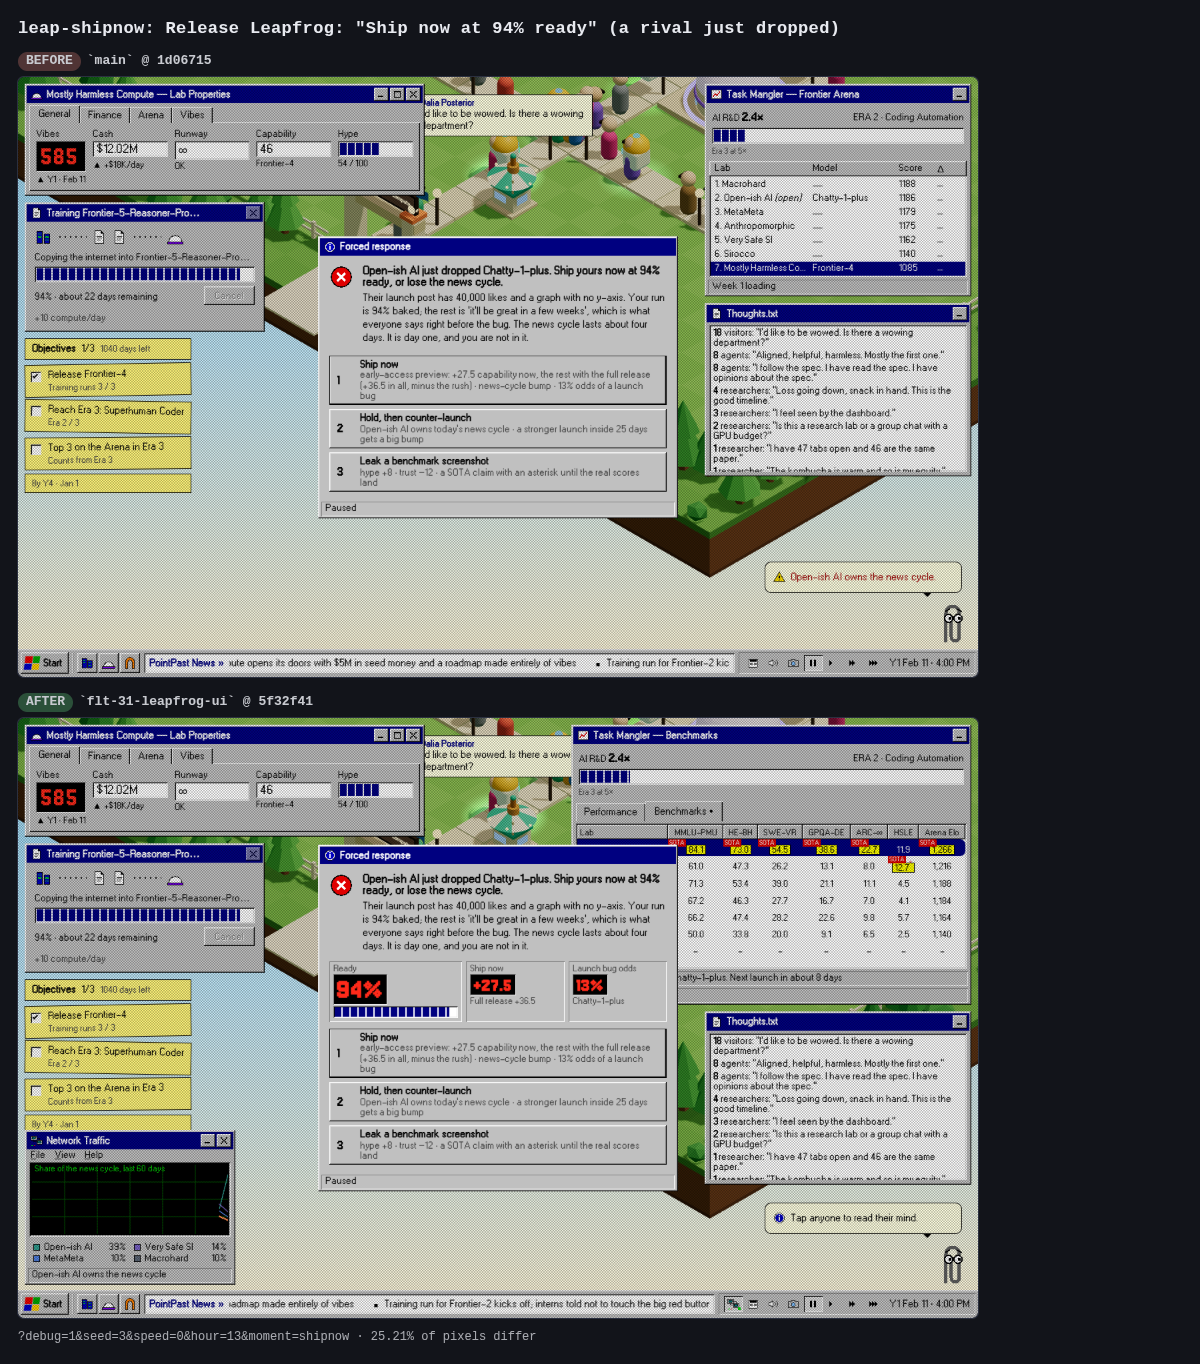
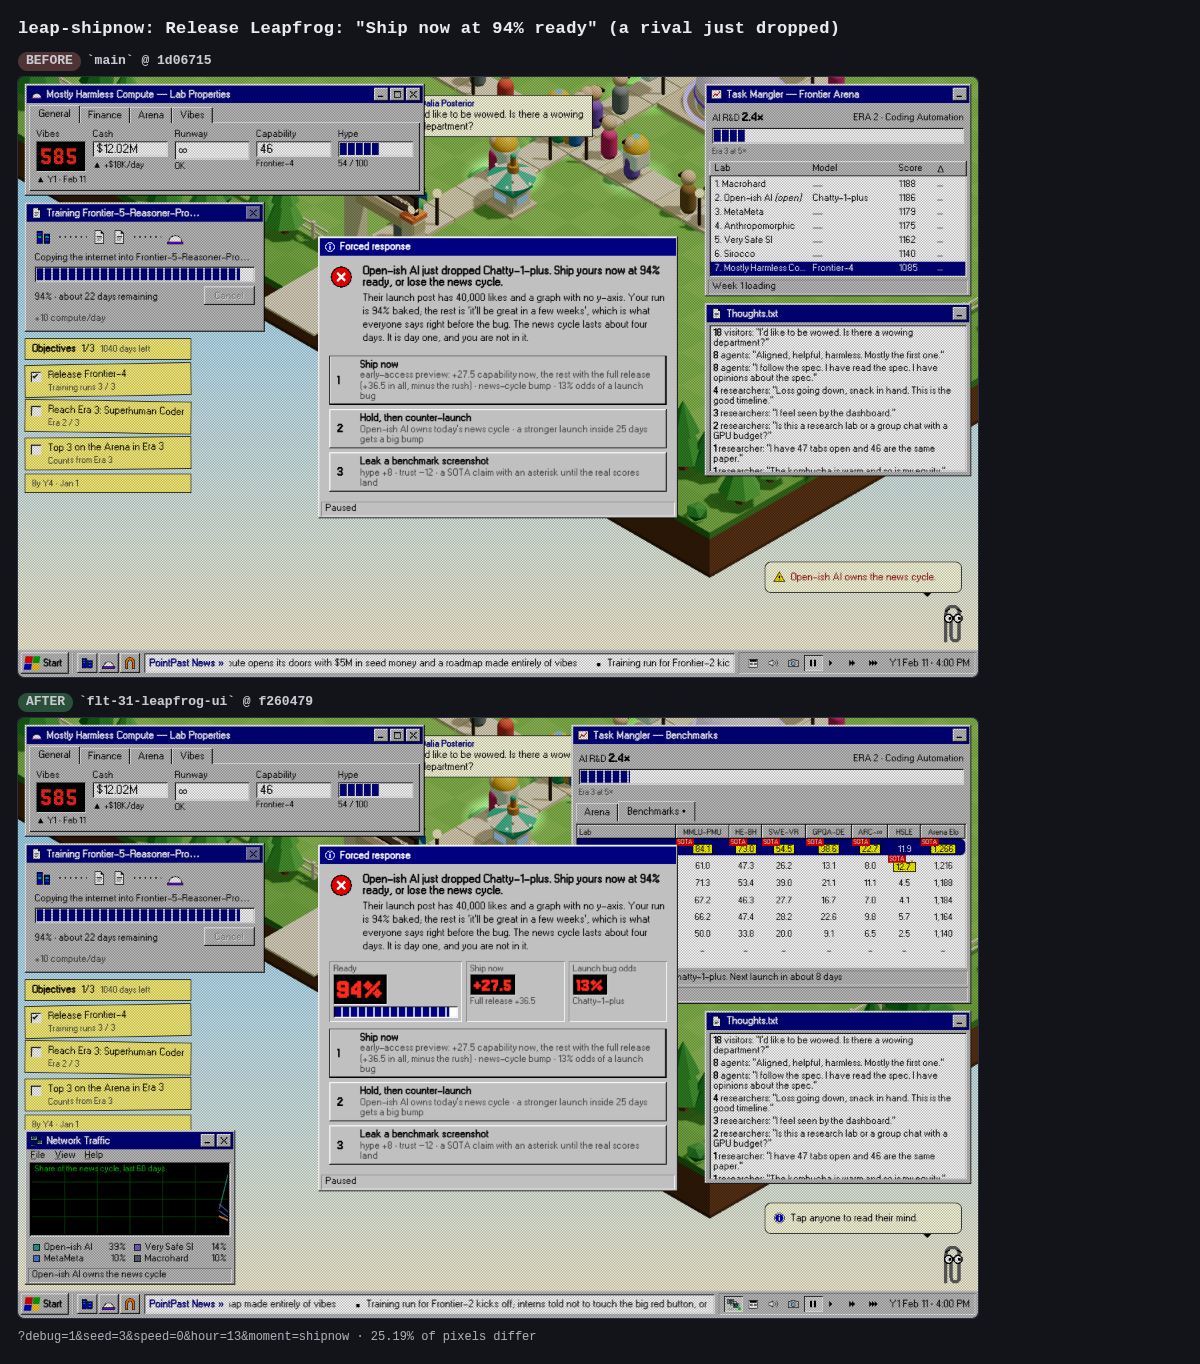
FLT-31: before/after screenshots (leapfrog scene set) and a gallery of every skin

diff --git a/docs/img/flt-31/report.md b/docs/img/flt-31/report.md
@@ -1,13 +1,13 @@
 
-| Scene | Before (`main` @ 1d06715) | After (`flt-31-leapfrog-ui` @ 5f32f41) |
+| Scene | Before (`main` @ 1d06715) | After (`flt-31-leapfrog-ui` @ f260479) |
 |---|---|---|
-| **leap-board**<br>21.5% px differ | ![leap-board](https://github.com/jem-computer/frontier-lab-tycoon/blob/flt-31-leapfrog-ui/docs/img/flt-31/before/leap-board.png?raw=true) | ![leap-board](https://github.com/jem-computer/frontier-lab-tycoon/blob/flt-31-leapfrog-ui/docs/img/flt-31/after/leap-board.png?raw=true) |
-| **leap-solved**<br>18.9% px differ | ![leap-solved](https://github.com/jem-computer/frontier-lab-tycoon/blob/flt-31-leapfrog-ui/docs/img/flt-31/before/leap-solved.png?raw=true) | ![leap-solved](https://github.com/jem-computer/frontier-lab-tycoon/blob/flt-31-leapfrog-ui/docs/img/flt-31/after/leap-solved.png?raw=true) |
-| **leap-voice**<br>22.8% px differ | ![leap-voice](https://github.com/jem-computer/frontier-lab-tycoon/blob/flt-31-leapfrog-ui/docs/img/flt-31/before/leap-voice.png?raw=true) | ![leap-voice](https://github.com/jem-computer/frontier-lab-tycoon/blob/flt-31-leapfrog-ui/docs/img/flt-31/after/leap-voice.png?raw=true) |
+| **leap-board**<br>21.4% px differ | ![leap-board](https://github.com/jem-computer/frontier-lab-tycoon/blob/flt-31-leapfrog-ui/docs/img/flt-31/before/leap-board.png?raw=true) | ![leap-board](https://github.com/jem-computer/frontier-lab-tycoon/blob/flt-31-leapfrog-ui/docs/img/flt-31/after/leap-board.png?raw=true) |
+| **leap-solved**<br>19.6% px differ | ![leap-solved](https://github.com/jem-computer/frontier-lab-tycoon/blob/flt-31-leapfrog-ui/docs/img/flt-31/before/leap-solved.png?raw=true) | ![leap-solved](https://github.com/jem-computer/frontier-lab-tycoon/blob/flt-31-leapfrog-ui/docs/img/flt-31/after/leap-solved.png?raw=true) |
+| **leap-voice**<br>26.1% px differ | ![leap-voice](https://github.com/jem-computer/frontier-lab-tycoon/blob/flt-31-leapfrog-ui/docs/img/flt-31/before/leap-voice.png?raw=true) | ![leap-voice](https://github.com/jem-computer/frontier-lab-tycoon/blob/flt-31-leapfrog-ui/docs/img/flt-31/after/leap-voice.png?raw=true) |
 | **leap-shipnow**<br>25.2% px differ | ![leap-shipnow](https://github.com/jem-computer/frontier-lab-tycoon/blob/flt-31-leapfrog-ui/docs/img/flt-31/before/leap-shipnow.png?raw=true) | ![leap-shipnow](https://github.com/jem-computer/frontier-lab-tycoon/blob/flt-31-leapfrog-ui/docs/img/flt-31/after/leap-shipnow.png?raw=true) |
-| **leap-dog**<br>32.7% px differ | ![leap-dog](https://github.com/jem-computer/frontier-lab-tycoon/blob/flt-31-leapfrog-ui/docs/img/flt-31/before/leap-dog.png?raw=true) | ![leap-dog](https://github.com/jem-computer/frontier-lab-tycoon/blob/flt-31-leapfrog-ui/docs/img/flt-31/after/leap-dog.png?raw=true) |
-| **leap-chart**<br>33.5% px differ | ![leap-chart](https://github.com/jem-computer/frontier-lab-tycoon/blob/flt-31-leapfrog-ui/docs/img/flt-31/before/leap-chart.png?raw=true) | ![leap-chart](https://github.com/jem-computer/frontier-lab-tycoon/blob/flt-31-leapfrog-ui/docs/img/flt-31/after/leap-chart.png?raw=true) |
-| **leap-phone**<br>29.2% px differ | ![leap-phone](https://github.com/jem-computer/frontier-lab-tycoon/blob/flt-31-leapfrog-ui/docs/img/flt-31/before/leap-phone.png?raw=true) | ![leap-phone](https://github.com/jem-computer/frontier-lab-tycoon/blob/flt-31-leapfrog-ui/docs/img/flt-31/after/leap-phone.png?raw=true) |
-| **leap-phone-board**<br>38.5% px differ | ![leap-phone-board](https://github.com/jem-computer/frontier-lab-tycoon/blob/flt-31-leapfrog-ui/docs/img/flt-31/before/leap-phone-board.png?raw=true) | ![leap-phone-board](https://github.com/jem-computer/frontier-lab-tycoon/blob/flt-31-leapfrog-ui/docs/img/flt-31/after/leap-phone-board.png?raw=true) |
+| **leap-dog**<br>32.6% px differ | ![leap-dog](https://github.com/jem-computer/frontier-lab-tycoon/blob/flt-31-leapfrog-ui/docs/img/flt-31/before/leap-dog.png?raw=true) | ![leap-dog](https://github.com/jem-computer/frontier-lab-tycoon/blob/flt-31-leapfrog-ui/docs/img/flt-31/after/leap-dog.png?raw=true) |
+| **leap-chart**<br>33.3% px differ | ![leap-chart](https://github.com/jem-computer/frontier-lab-tycoon/blob/flt-31-leapfrog-ui/docs/img/flt-31/before/leap-chart.png?raw=true) | ![leap-chart](https://github.com/jem-computer/frontier-lab-tycoon/blob/flt-31-leapfrog-ui/docs/img/flt-31/after/leap-chart.png?raw=true) |
+| **leap-phone**<br>22.8% px differ | ![leap-phone](https://github.com/jem-computer/frontier-lab-tycoon/blob/flt-31-leapfrog-ui/docs/img/flt-31/before/leap-phone.png?raw=true) | ![leap-phone](https://github.com/jem-computer/frontier-lab-tycoon/blob/flt-31-leapfrog-ui/docs/img/flt-31/after/leap-phone.png?raw=true) |
+| **leap-phone-board**<br>48.3% px differ | ![leap-phone-board](https://github.com/jem-computer/frontier-lab-tycoon/blob/flt-31-leapfrog-ui/docs/img/flt-31/before/leap-phone-board.png?raw=true) | ![leap-phone-board](https://github.com/jem-computer/frontier-lab-tycoon/blob/flt-31-leapfrog-ui/docs/img/flt-31/after/leap-phone-board.png?raw=true) |
 
-_pnpm shots: 8 scene(s) in 256.6s (16/16 captures ok)._
+_pnpm shots: 8 scene(s) in 251.8s (16/16 captures ok)._

diff --git a/docs/img/flt-31-skins/report.md b/docs/img/flt-31-skins/report.md
@@ -1,0 +1,7 @@
+
+| Scene | Gallery (6 skins) |
+|---|---|
+| leap-board | ![gallery-leap-board](https://github.com/jem-computer/frontier-lab-tycoon/blob/flt-31-leapfrog-ui/docs/img/flt-31-skins/compare/gallery-leap-board.png?raw=true) |
+| leap-shipnow | ![gallery-leap-shipnow](https://github.com/jem-computer/frontier-lab-tycoon/blob/flt-31-leapfrog-ui/docs/img/flt-31-skins/compare/gallery-leap-shipnow.png?raw=true) |
+
+_pnpm shots: 2 scene(s), 6 skin(s) in 169.7s (12/12 captures ok)._
